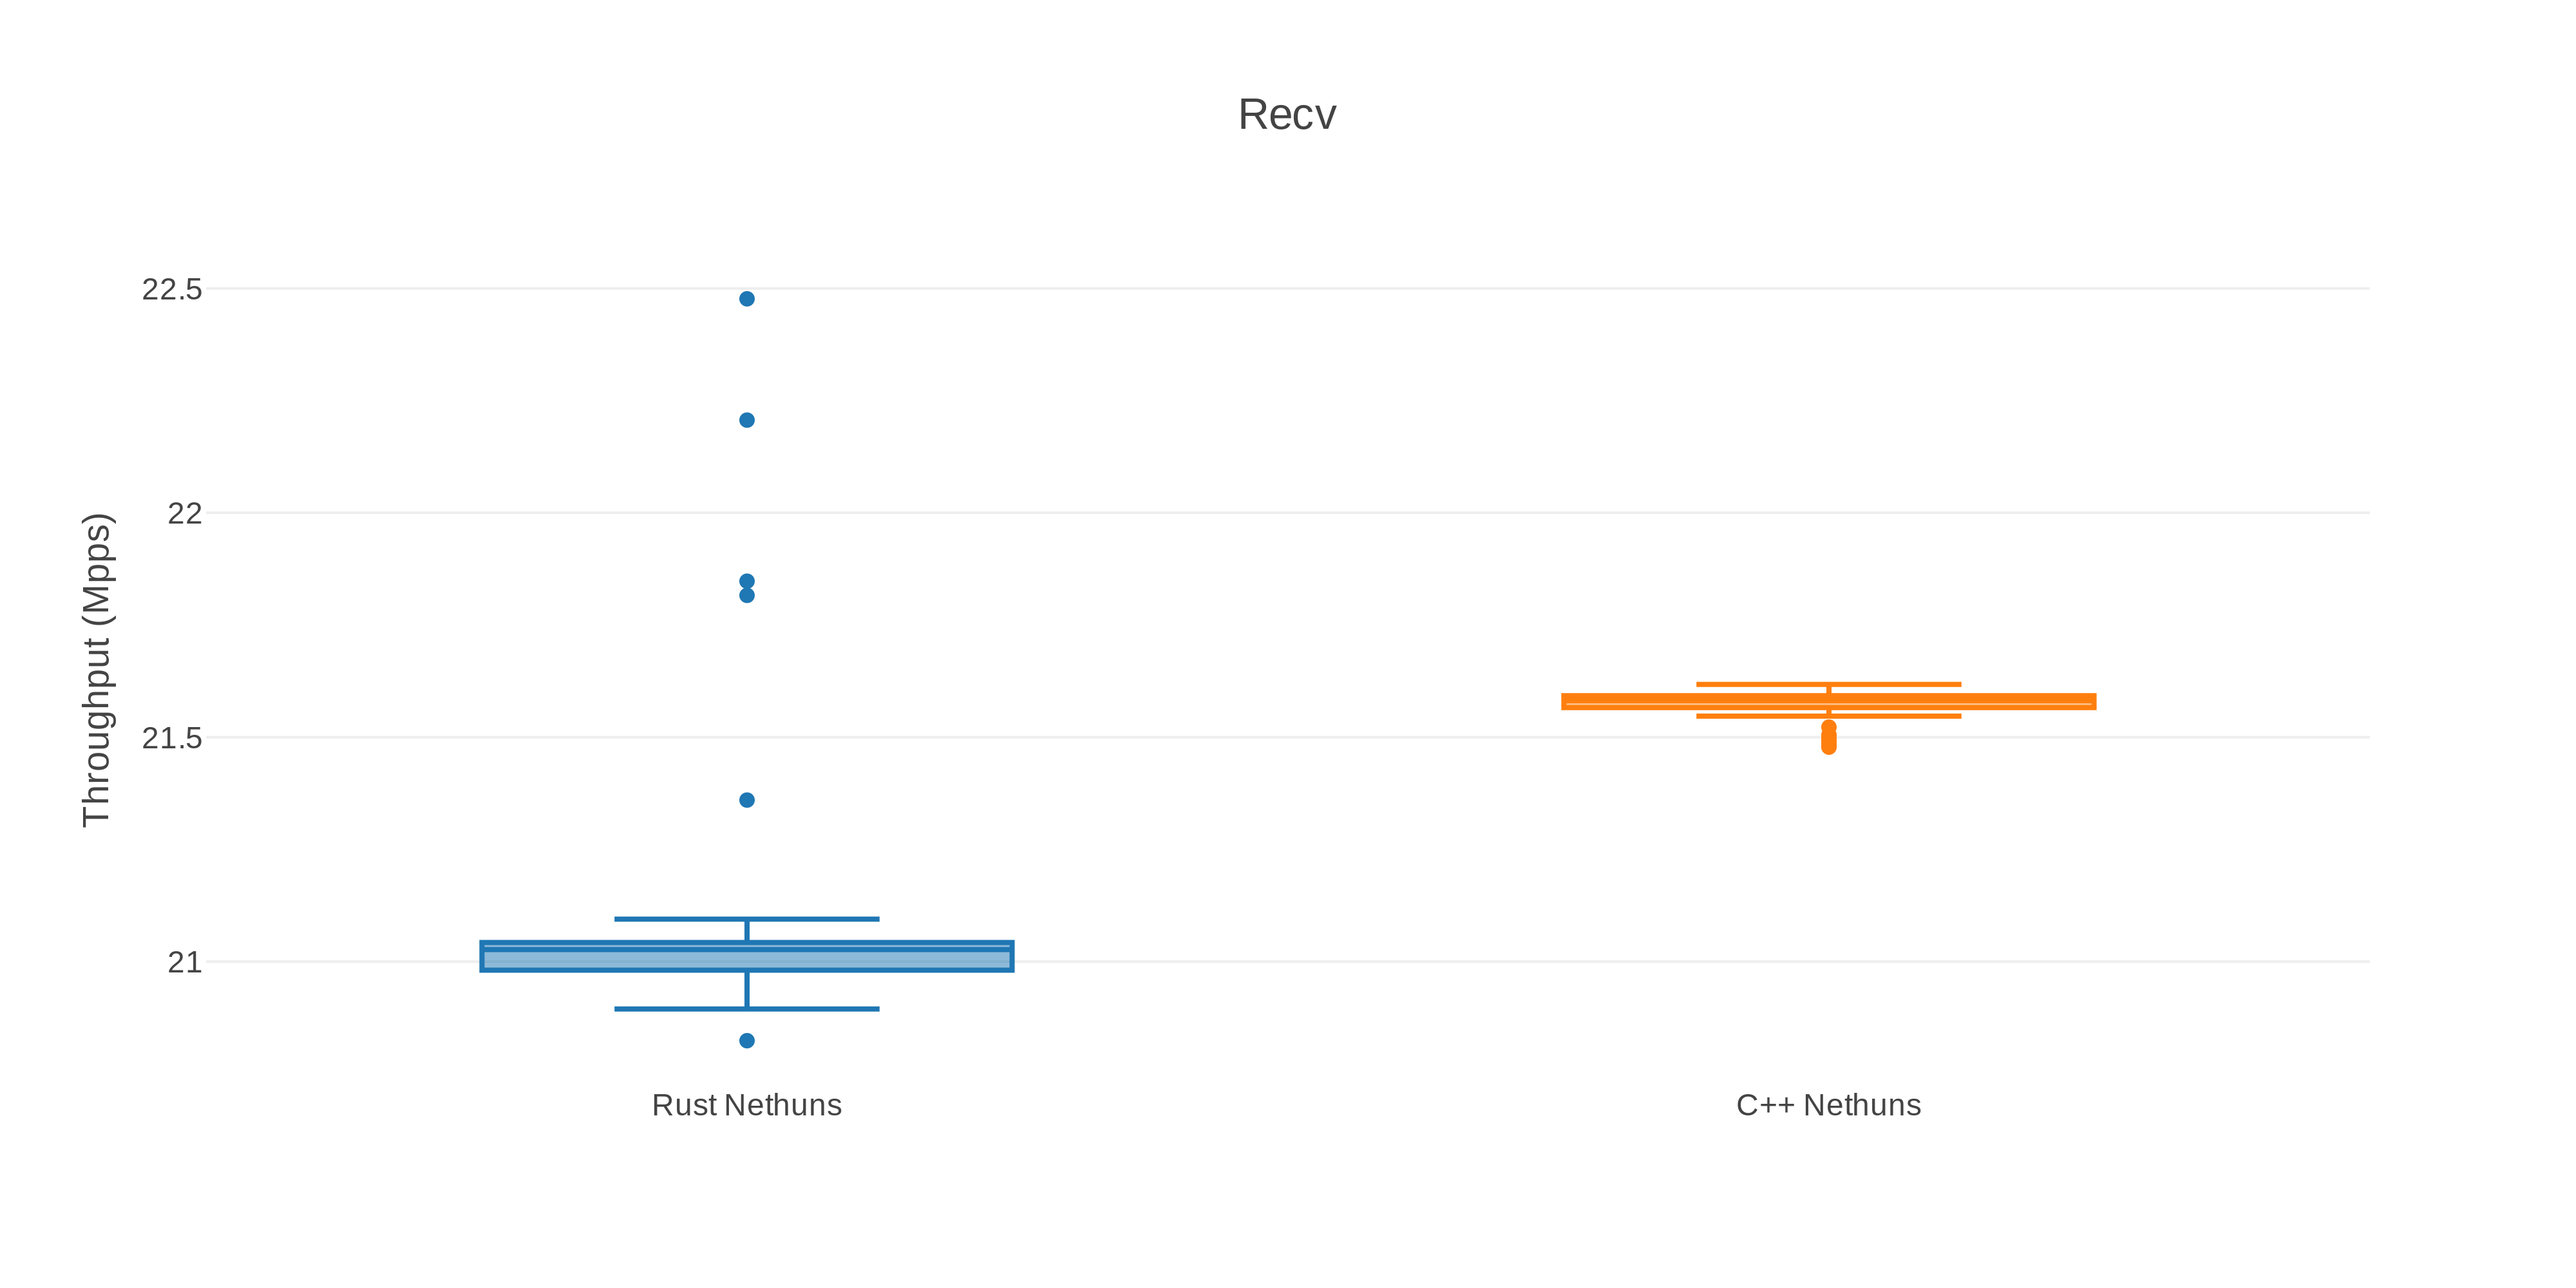
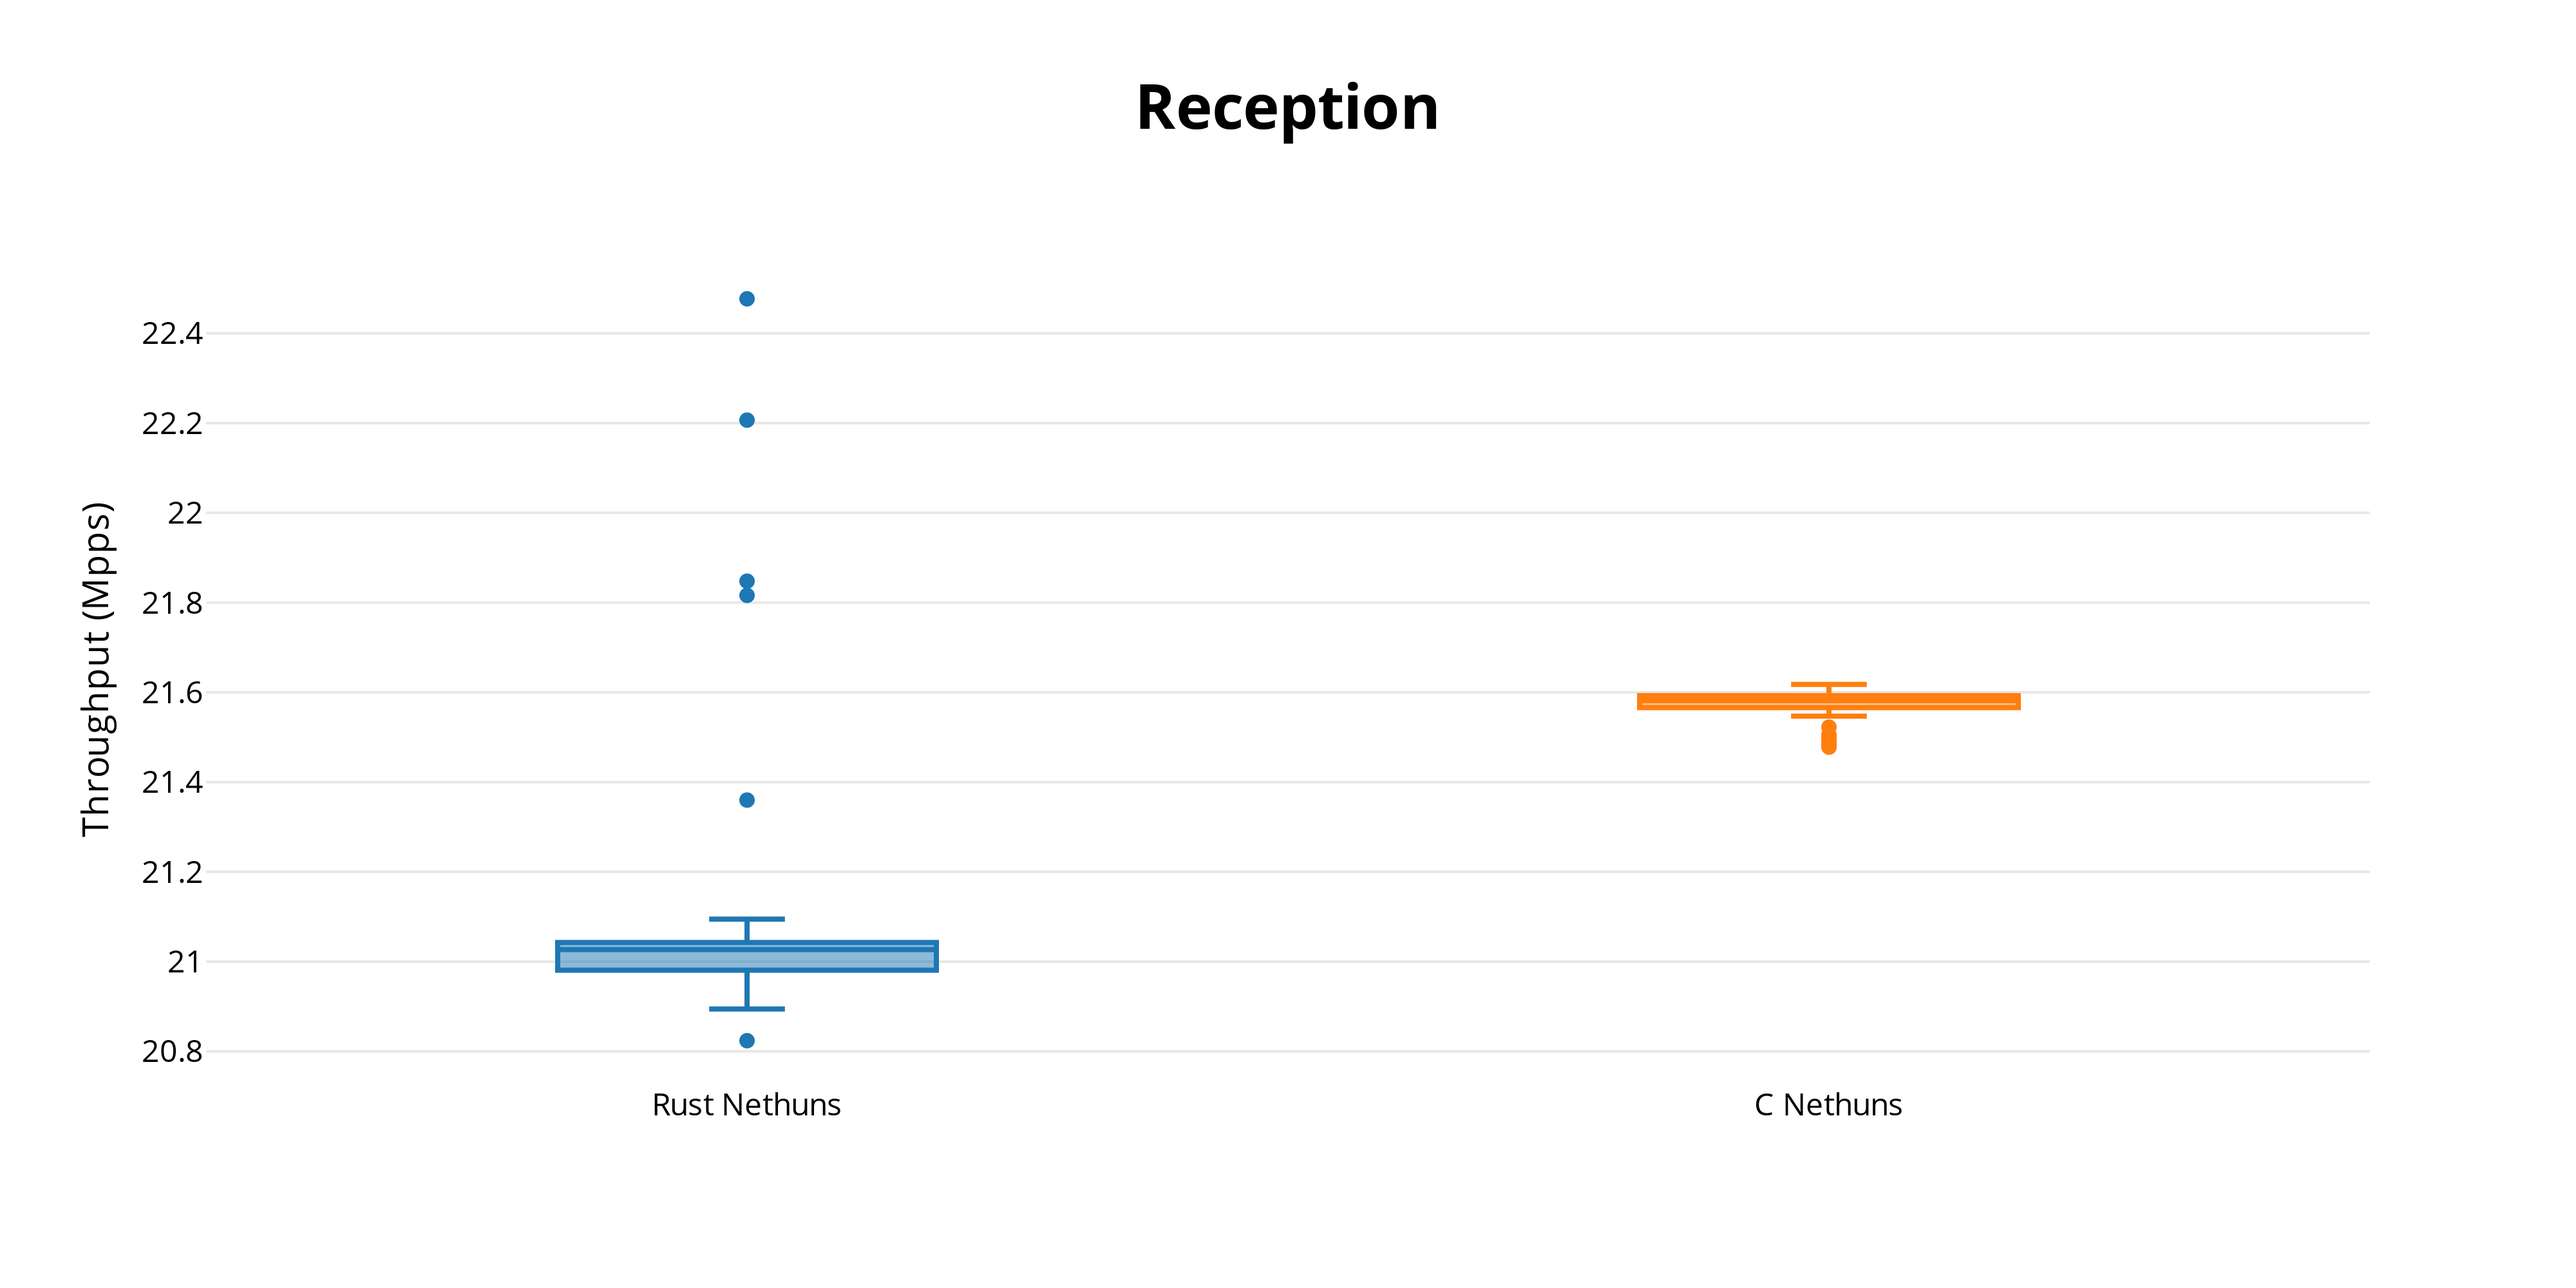
Regenerate graphs

diff --git a/data/send_zero.html b/data/send_zero.html
@@ -79,7 +79,8 @@
         12.2436736,
         12.162111099999999
       ],
-      "name": "Rust Nethuns"
+      "name": "Rust Nethuns",
+      "whiskerwidth": 0.2
     },
     {
       "type": "box",
@@ -145,21 +146,32 @@
         14.681881599999999,
         14.6912
       ],
-      "name": "C++ Nethuns"
+      "name": "C Nethuns",
+      "whiskerwidth": 0.2
     }
   ],
   "layout": {
     "title": {
-      "text": "Send (zerocopy)"
+      "text": "\u003cb\u003eTransmission (zero-copy)\u003c/b\u003e",
+      "font": {
+        "size": 24,
+        "color": "black"
+      }
     },
     "showlegend": false,
     "width": 1000,
     "height": 500,
+    "xaxis": {
+      "color": "black"
+    },
     "yaxis": {
+      "color": "black",
       "title": {
         "text": "Throughput (Mpps)"
-      }
-    }
+      },
+      "dtick": 0.2
+    },
+    "boxgap": 0.5
   },
   "config": {}
 });

diff --git a/data/recv.html b/data/recv.html
@@ -79,7 +79,8 @@
         21.0313155,
         21.0443537
       ],
-      "name": "Rust Nethuns"
+      "name": "Rust Nethuns",
+      "whiskerwidth": 0.2
     },
     {
       "type": "box",
@@ -145,21 +146,32 @@
         21.583146199999998,
         21.568143600000003
       ],
-      "name": "C++ Nethuns"
+      "name": "C Nethuns",
+      "whiskerwidth": 0.2
     }
   ],
   "layout": {
     "title": {
-      "text": "Recv"
+      "text": "\u003cb\u003eReception\u003c/b\u003e",
+      "font": {
+        "size": 24,
+        "color": "black"
+      }
     },
     "showlegend": false,
     "width": 1000,
     "height": 500,
+    "xaxis": {
+      "color": "black"
+    },
     "yaxis": {
+      "color": "black",
       "title": {
         "text": "Throughput (Mpps)"
-      }
-    }
+      },
+      "dtick": 0.2
+    },
+    "boxgap": 0.5
   },
   "config": {}
 });

diff --git a/data/send.html b/data/send.html
@@ -79,7 +79,8 @@
         11.9052992,
         11.5716945
       ],
-      "name": "Rust Nethuns"
+      "name": "Rust Nethuns",
+      "whiskerwidth": 0.2
     },
     {
       "type": "box",
@@ -145,21 +146,32 @@
         12.1456544,
         12.137453599999999
       ],
-      "name": "C++ Nethuns"
+      "name": "C Nethuns",
+      "whiskerwidth": 0.2
     }
   ],
   "layout": {
     "title": {
-      "text": "Send"
+      "text": "\u003cb\u003eTransmission\u003c/b\u003e",
+      "font": {
+        "size": 24,
+        "color": "black"
+      }
     },
     "showlegend": false,
     "width": 1000,
     "height": 500,
+    "xaxis": {
+      "color": "black"
+    },
     "yaxis": {
+      "color": "black",
       "title": {
         "text": "Throughput (Mpps)"
-      }
-    }
+      },
+      "dtick": 0.2
+    },
+    "boxgap": 0.5
   },
   "config": {}
 });
